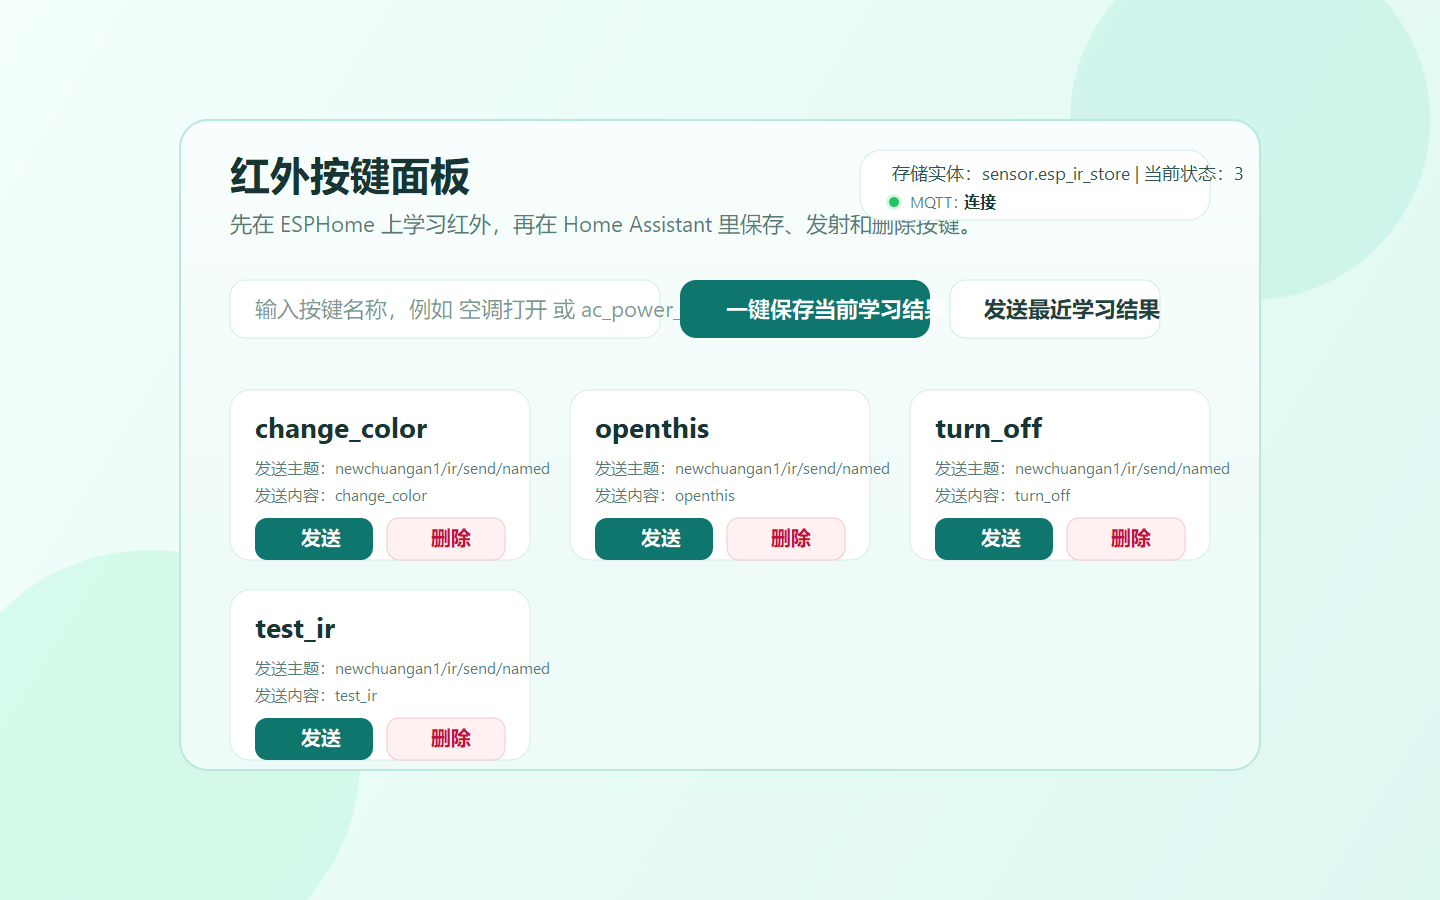
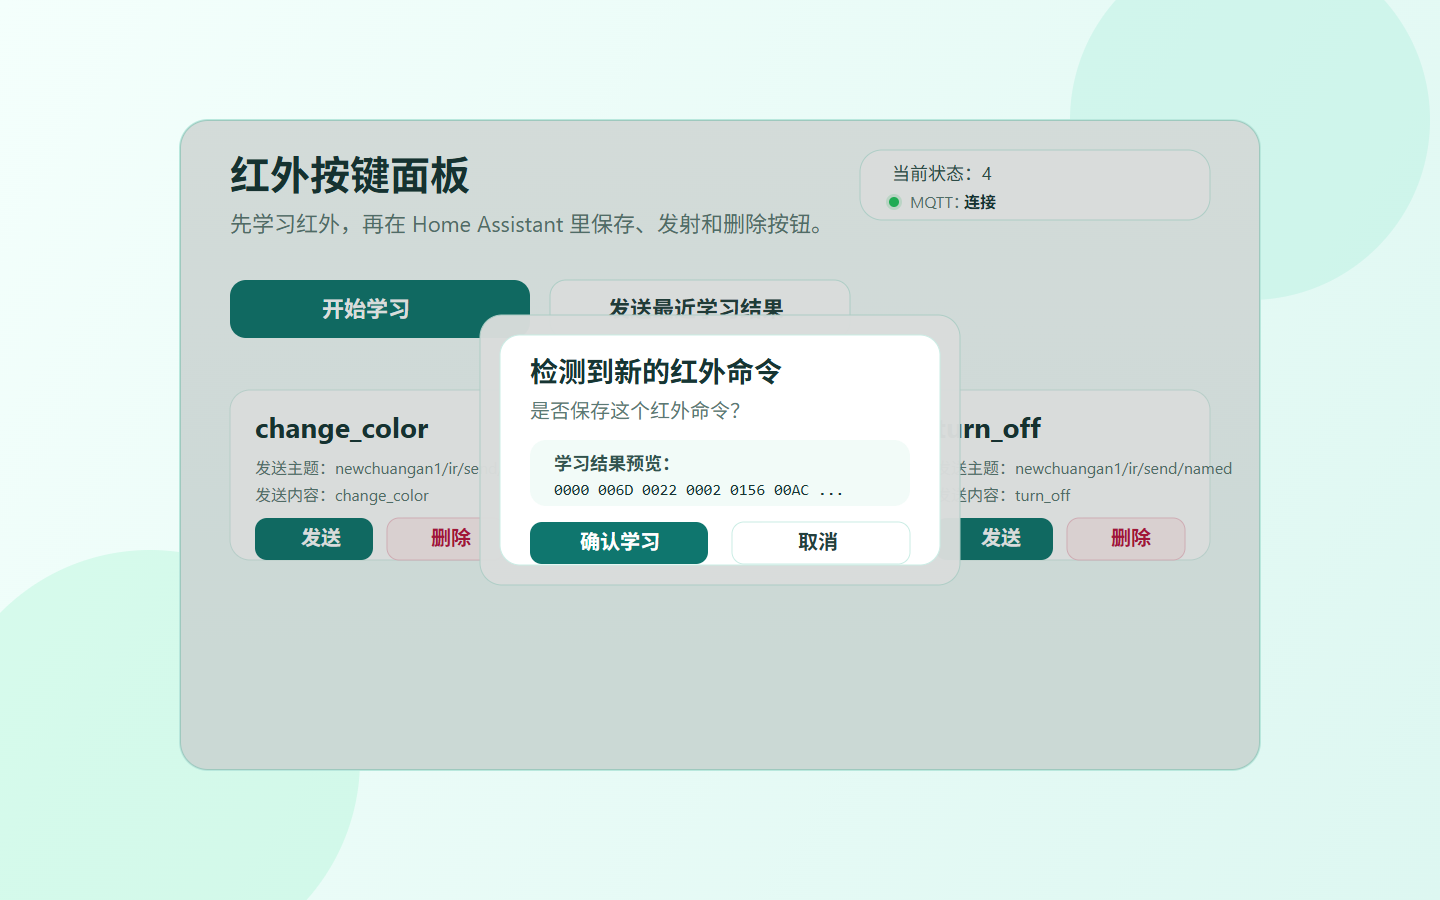
Fix learning dialog trigger and refresh previews

diff --git a/esp-ir-mqtt-card.js b/esp-ir-mqtt-card.js
@@ -186,9 +186,15 @@ class EspIrMqttCard extends HTMLElement {
   }
 
   set hass(hass) {
-    const previousLearned = this._getLearnEventMarker();
+    const previousLearnMarker = this._getLearnEventMarker();
+    const previousLearnedCode = this._getResolvedLearnedCode();
     this._hass = hass;
-    this._handleLearnedStateChange(previousLearned, this._getLearnEventMarker());
+    this._handleLearnedStateChange(
+      previousLearnMarker,
+      this._getLearnEventMarker(),
+      previousLearnedCode,
+      this._getResolvedLearnedCode(),
+    );
     this._render();
   }
 
@@ -381,8 +387,8 @@ class EspIrMqttCard extends HTMLElement {
     return [...keys].sort((a, b) => a.localeCompare(b));
   }
 
-  _handleLearnedStateChange(previousValue, nextValue) {
-    const learnedCode = this._getResolvedLearnedCode();
+  _handleLearnedStateChange(previousValue, nextValue, previousLearnedCode = "", nextLearnedCode = "") {
+    const learnedCode = (nextLearnedCode || "").trim();
     const marker = (nextValue || "").trim();
 
     if (!this._learnDialog || this._learnDialog.step !== "waiting") {
@@ -392,7 +398,11 @@ class EspIrMqttCard extends HTMLElement {
     const next = marker;
     const baseline = (this._learnDialog.baseline || "").trim();
     const markerChanged = next && next !== baseline && next !== previousValue;
-    const awaitingCode = this._learnDialog.awaitingCode;
+    const learnedCodeChanged =
+      !!learnedCode &&
+      learnedCode !== (previousLearnedCode || "").trim() &&
+      learnedCode !== (this._learnDialog.captured || "").trim();
+    const awaitingCode = !!this._learnDialog.awaitingCode;
     if (markerChanged) {
       this._learnDialog = {
         ...this._learnDialog,
@@ -400,7 +410,7 @@ class EspIrMqttCard extends HTMLElement {
         awaitingCode: true,
       };
     }
-    if ((!awaitingCode && !markerChanged) || !learnedCode) {
+    if ((!awaitingCode && !markerChanged && !learnedCodeChanged) || !learnedCode) {
       return;
     }
 
